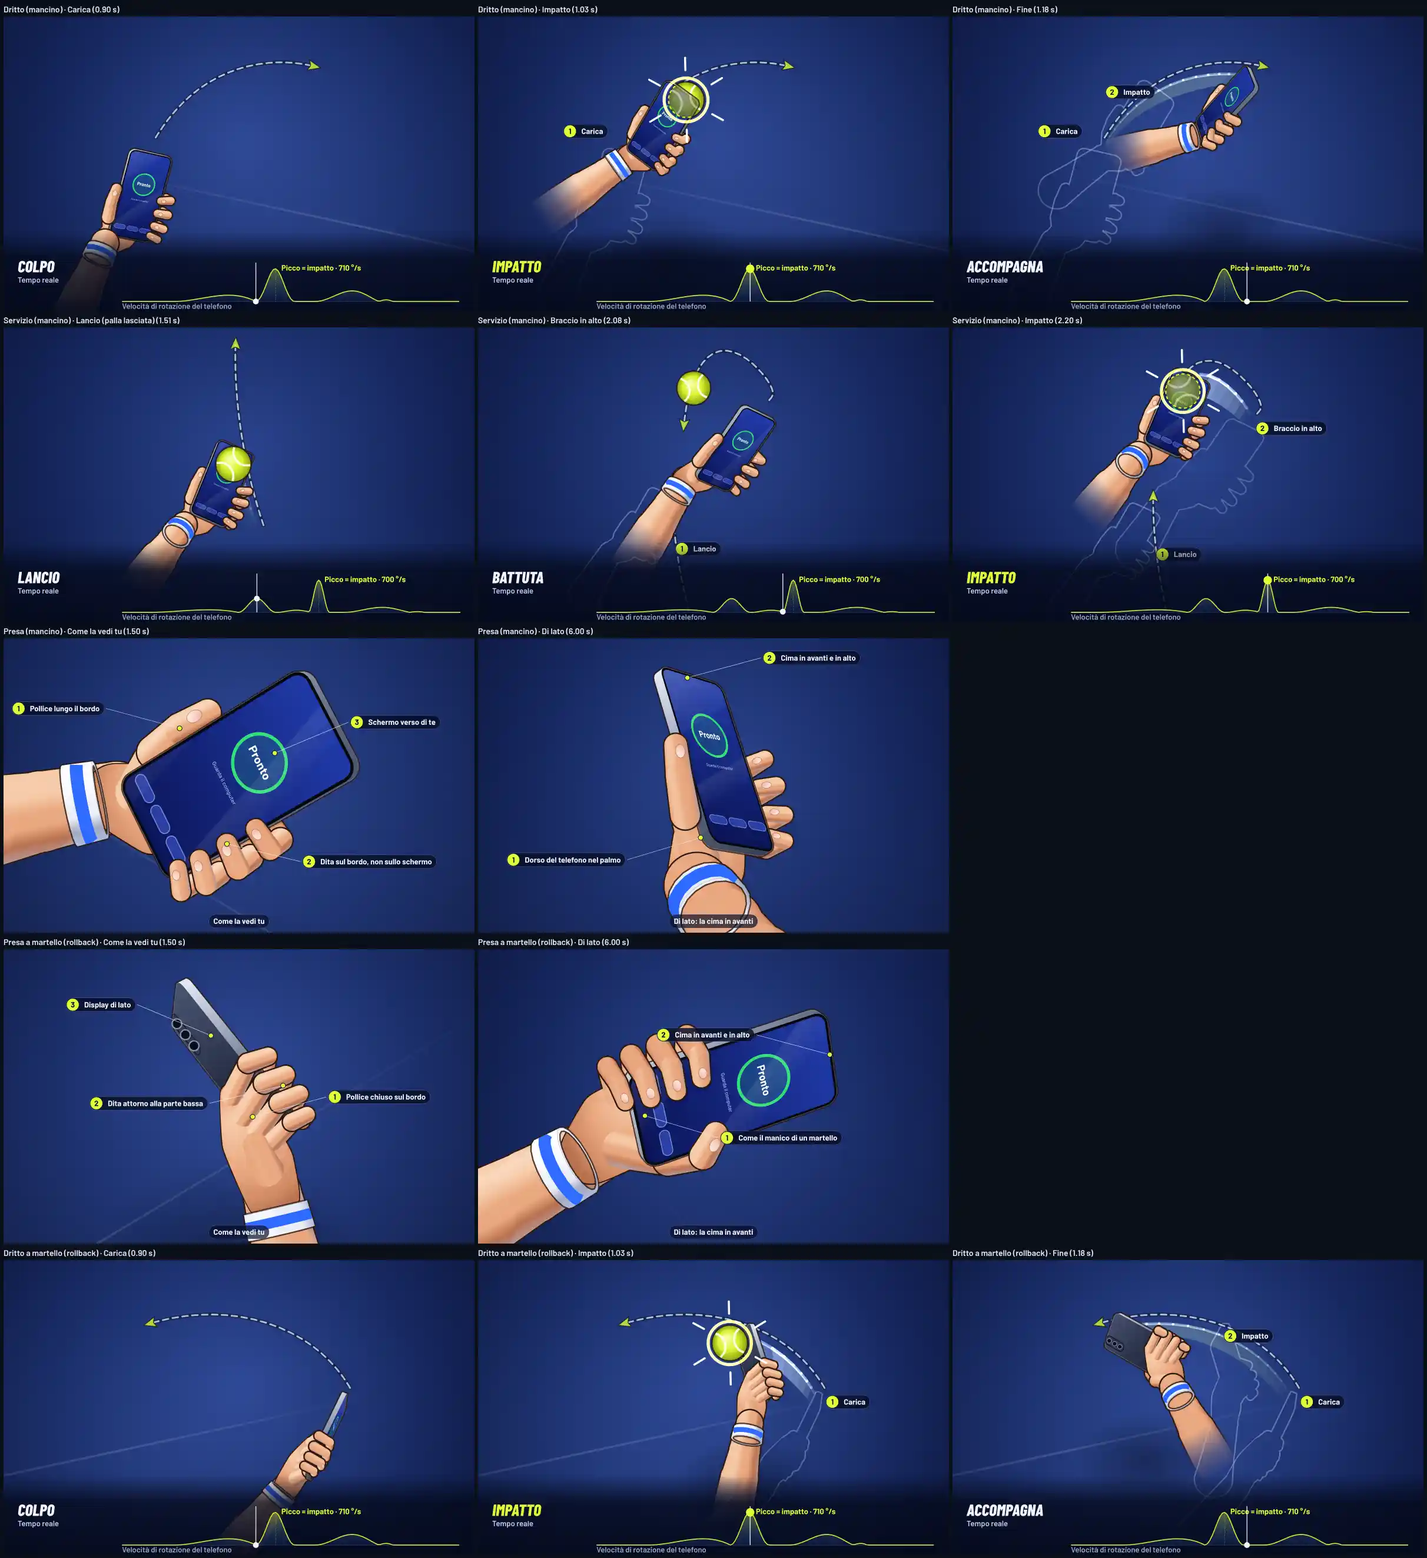
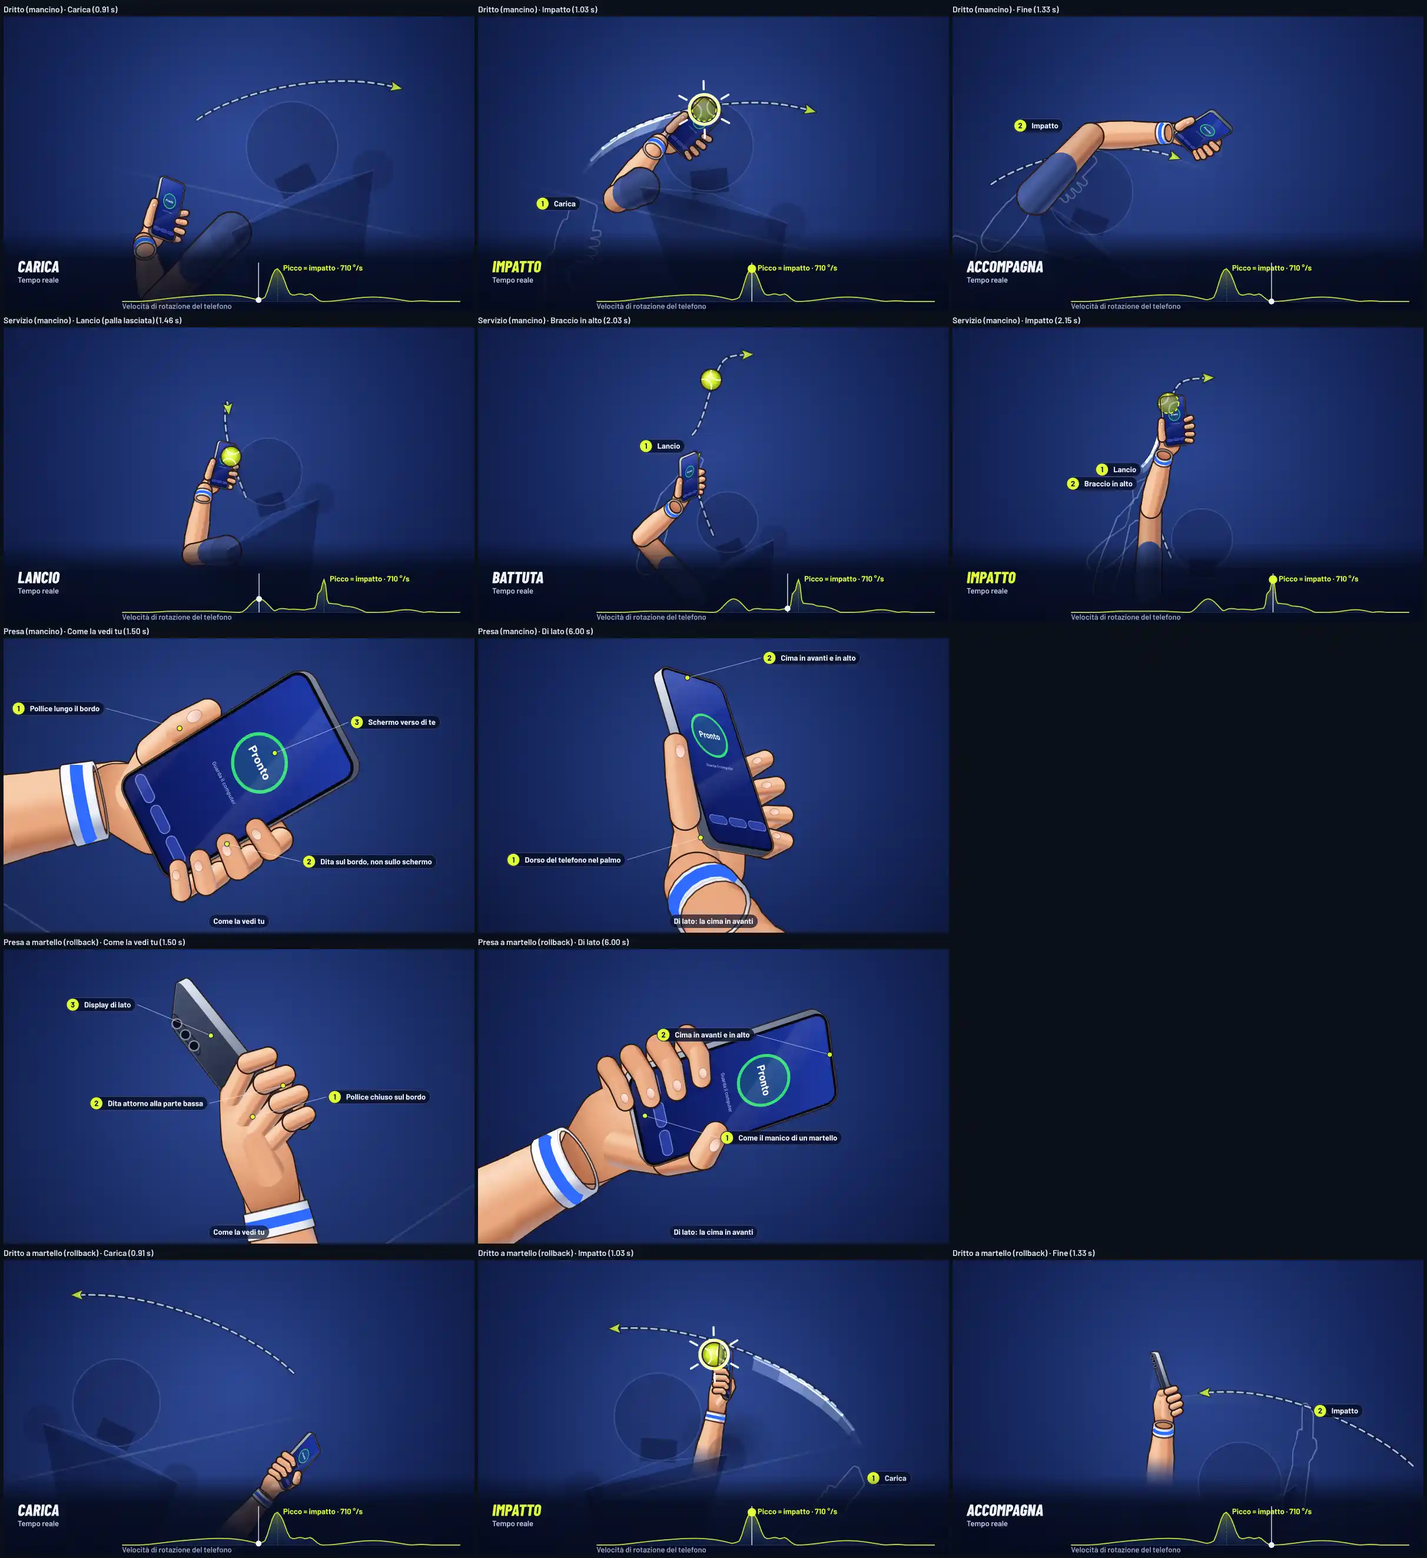
Versione 2026-11-08.1 (B13: gesti del tutorial sulla catena fisica del braccio, prova gesture-calibration stabile); documenti
Claude-Session: https://claude.ai/code/session_01R98qPBRMWiYnbcjA1WWYB9

diff --git a/site/js/tennis/version.js b/site/js/tennis/version.js
@@ -1,3 +1,3 @@
 // Versione della build di NATPF Simulator (gioco e pagina del telefono): finisce nella diagnostica di ogni sessione,
 // così un registro dice con quale codice è stato fatto. Si aggiorna a ogni consegna.
-export const NATPF_BUILD = '2026-11-07.5';
+export const NATPF_BUILD = '2026-11-08.1';

diff --git a/docs/PIANO_LAVORI.md b/docs/PIANO_LAVORI.md
@@ -17,33 +17,31 @@ Come si aggiorna:
 
 ## 1. Checkpoint (riscritto a ogni passo)
 
-- Aggiornato: 07/11/2026 sera · agente: Claude · branch `natpf-simulator`.
-- **Per riprendere leggere `docs/PASSAGGIO_CONSEGNE.md`**: cosa è stato fatto dal 05/11 (B9 tutorial, telefono,
-  schermo spento, pronto; B10 voce «smash», tabellone, scritte nel 2v2, prove; B11 installer unico che si aggiorna dal
-  gioco su Cloudflare R2), cosa resta aperto (§3) e cosa controllare (§4). Checkpoint precedente (storia dal 04/11):
+- Aggiornato: 08/11/2026 · agente: Claude · branch `natpf-simulator`.
+- **Per riprendere leggere `docs/PASSAGGIO_CONSEGNE.md`** (lavoro dal 05/11, punti aperti §3, controlli §4) e, per i
+  gesti del tutorial, `docs/b13/gesti-nuovi.md`. Checkpoint precedente (storia dal 04/11):
   `docs/archivio/PIANO_checkpoint_fino_al_2026-11-07.md`.
-- **B12 fatto (07/11 sera, richiesta «parti dalla forza del colpo e dalle azioni di GitHub»):** il colpo tipico
-  impara solo dai colpi normali (dopo 4 palle corte il dritto non diventa più piatto; `67af1d9`); azioni di GitHub a
-  Node 24 (`4ba8b49`). Versione **2026-11-07.5**: il push fa pubblicare il workflow `natpf-windows.yml` su R2 → è la
-  **prima prova vera dell'aggiornamento dal gioco** per chi ha la 07.4. Zip Cloudflare sha256 `65d242c8…f3333dd6d96`.
-- Test: gioco 875/875, sito 195/195, LAN 12/12, programma Windows 28/28, build ok; nel browser natpf-gesti-speciali 9/9,
-  natpf-rally 7/7, natpf-training-flow 18/18 (le altre come al giro del B11, `docs/PASSAGGIO_CONSEGNE.md` §4).
-- Non verificato: Windows (installazione, UAC, aggiornamento dal gioco, riapertura), telefoni veri, ledwall, GPU vera,
-  persone vere sull'animazione nuova.
-- GitHub: installer 2026-11-07.5 **pubblicato su R2** (`latest.json` controllato: build 07.5, sha256
-  `7c037ab5…c087fc5a`, novità), azioni senza avviso di Node 20; «NATPF Simulator tests» rosso solo in
-  `gesture-calibration.mjs:73` (due tentativi; in locale 18/18 due volte: instabilità nota dei runner, §3.10 del
-  passaggio di consegne).
-- **Richiesta nuova (07/11 sera):** «sistema la prova gesture-calibration. In parallelo, rivedi ancora i gesti del
+- **B13 fatto (08/11, richiesta «sistema la prova gesture-calibration. In parallelo, rivedi ancora i gesti del
   tutorial, il dritto non mi sembra tale e ci sono troppi colpi che non simulano la fisica del movimento del braccio
-  con il telefono in mano» → **B13**.
-- **Blocco in corso:** B13, in due rami paralleli: (a) `tools/e2e/gesture-calibration.mjs` stabile sui runner lenti
-  (servizio col telefono del sito: `toss: null` al secondo gesto); (b) moto dei gesti del tutorial
-  (`natpf-tennis/src/natpf/natpf_gesture_pose.js`, disegno `natpf_gesture_demo.js`) rifatto su una catena
-  spalla-gomito-polso fisicamente plausibile, senza perdere la fedeltà al riconoscimento (`natpf-gesture-pose.test.mjs`,
-  `natpf-gesture-anim.test.mjs`). Analisi e prove in `docs/b13/` quando pronte.
-- **Prossima azione esatta:** se il lavoro si interrompe, ripartire da (a) e (b) leggendo `docs/b13/` (se c'è) e il
-  passaggio di consegne §3; il collaudo dell'aggiornamento 07.4 → 07.5 dall'utente resta da fare.
+  con il telefono in mano»):**
+  - (a) `tools/e2e/gesture-calibration.mjs` stabile (`9f9ca9e`…`67845e6`): la prova fermava il gioco con la pausa di
+    rete, e un gesto fatto più di 0,8 s dopo l'ultimo fotogramma registrato viene scartato apposta
+    (`input-time.js`); sui runner lenti succedeva. Ora fermo immagine all'apice del lancio senza pausa; `CPU_THROTTLE`
+    per simulare un runner lento (prima 0/5 con CPU ×4, ora 12/12). Analisi `docs/b13/gesture-calibration-ci.md`.
+  - (b) Gesti del tutorial sulla catena fisica spalla-gomito-polso (`e82f35b`): braccio intero dalla spalla con busto,
+    testa e manica; dritto, piatto, incrociato, rovescio, servizio, schiacciata, volée e pallonetto rifatti; nuovo test
+    `natpf-gesture-physics` (12). Riconoscimento non toccato. **Limite rimasto**: all'impatto la mano del dritto va in
+    diagonale avanti-sinistra (57° dalla rete, prima 77°): con la presa nel palmo e i limiti del riconoscimento non può
+    andare dritta verso la rete con il palmo davanti (`docs/b13/gesti-nuovi.md` §0).
+  - Versione **2026-11-08.1** (novità per chi aggiorna dal gioco).
+- Test: gioco 887/887, sito 195/195, LAN 12/12, programma Windows 28/28, build ok; nel browser vedi
+  `docs/WORK_PROGRESS.md` B13.
+- Non verificato: Windows (installazione, aggiornamento dal gioco 07.4 → 07.5 → 08.1), telefoni veri, ledwall, GPU vera,
+  persone vere sull'animazione nuova; l'utente non ha ancora visto i fogli dei gesti nuovi.
+- **Decisioni chieste all'utente** (B13): tenere la sagoma del busto; aggiungere una racchetta fantasma o il braccio
+  libero in servizio e schiacciata; camera alta da dietro (stile TV) per i colpi da fondo.
+- **Prossima azione esatta:** controllare la CI del push di B13 («NATPF Simulator tests» con `gesture-calibration`
+  verde; «NATPF eseguibili Windows» che pubblica la 2026-11-08.1 su R2) e aspettare il parere dell'utente sui gesti.
 ## 2. Regole di lavoro decise dall'utente (04/11/2026, valgono per tutti gli agenti)
 
 1. **Push**: dopo ogni commit verificato, subito, su `origin natpf-simulator`. Verificato = test del gioco e del sito
@@ -119,7 +117,7 @@ Legenda: [ ] da fare · [~] in corso · [x] fatto, verificato e pubblicato.
 | B10 Voce, tabellone, scritte, prove | [x] | voce «smash» solo per la schiacciata, tabellone come in TV, scritte del colpo fuori dal campo nel 2v2, palla corta e salita abituale, blocco di 1 s, prove rifatte | `8a12f2b`…`f490c7b` | 2026-11-07.1–.3 |
 | B11 Installer unico con aggiornamenti | [x] | un solo installer Windows che si aggiorna dal gioco (Cloudflare R2, bucket UE `natpfsimulator`), zip LAN e portatile tolti; collaudo Windows dell'utente in corso | `8623bd9`…`fa190f2` | 2026-11-07.4 |
 | B12 Forza del colpo e CI | [x] | colpo tipico solo dai colpi normali (palle corte non abbassano più la forza); azioni di GitHub a Node 24 | vedi WORK_PROGRESS B12 | 2026-11-07.5 |
-| B13 Prova del servizio e gesti del tutorial | [~] | `gesture-calibration` stabile in CI; moto dei gesti del tutorial con la fisica del braccio (dritto credibile) | — | — |
+| B13 Prova del servizio e gesti del tutorial | [x] | `gesture-calibration` senza pausa di rete (stabile con CPU ×4); gesti del tutorial sulla catena fisica del braccio (dritto ancora in diagonale: limite del riconoscimento) | vedi WORK_PROGRESS B13 | 2026-11-08.1 |
 
 Ordine: B0 → B1 → B2 → B3 → B4 → B5 → B6. B2 e B6 non dipendono dagli altri e possono essere anticipati se un blocco
 resta in attesa di una decisione. B4 dipende da B3 (il contenuto della modale mostra la presa nuova).

diff --git a/docs/PASSAGGIO_CONSEGNE.md b/docs/PASSAGGIO_CONSEGNE.md
@@ -154,13 +154,13 @@ Le sha256 di tutti i pacchetti sono in `docs/WORK_PROGRESS.md`.
 | 1 | **Collaudo Windows dell'utente** (installer, SmartScreen, UAC, firewall, ledwall, webcam, scheda grafica del PC noleggiato, schermo intero, monitor) | In corso dall'utente con la 2026-11-07.4. Lista dei punti: `docs/COLLAUDO_WINDOWS.md` (§2 installazione, §2b aggiornamento, §4–§6). Correggere ciò che segnala (registro `%LOCALAPPDATA%\NATPF\log\programma.log`). |
 | 2 | **Primo aggiornamento vero dal gioco** | Si prova solo con la **prossima versione** (2026-11-07.5 o successiva): bump della versione → push → il workflow pubblica → sul PC con la 07.4 l'avviso nel menu → Aggiorna → Riavvia e aggiorna → UAC → gioco riaperto con la versione nuova e le impostazioni conservate. Le installazioni fatte con installer ≤ 07.3 non hanno l'aggiornatore: la 07.4 va installata a mano una volta. |
 | 3 | **Telefoni veri** | Mai provati in questi blocchi: frecce del tutorial e «Tutto chiaro» acceso solo alla fine, schermo spento (3 s / 30 s / 6 min, Android e iPhone), conto alla rovescia nello stesso schermo, presa nel palmo, voce «smash» ascoltata. |
-| 4 | **Persone vere sull'animazione** | Brief `docs/b9/giudizio-animazione.md` §5.6.6: 3 persone che non conoscono il gioco guardano dritto, rovescio e servizio e li ripetono (diagnostica della sessione). Le camere di servizio e schiacciata non sono più di profilo (da dietro e dall'alto): da far vedere all'utente. Minori non corretti: fantasmi un po' affollati, pallonetto piccolo a riposo; le schermate `docs/b9/img/C-modale-*-servizio.webp` mostrano ancora la camera vecchia. |
+| 4 | **Persone vere sull'animazione** | Il moto è stato rifatto nel B13 (08/11) sulla catena fisica del braccio, con il braccio intero, busto e testa (`docs/b13/gesti-nuovi.md`); l'utente non l'ha ancora visto. Decisioni chieste: tenere la sagoma del busto; racchetta fantasma o braccio libero in servizio e schiacciata; camera alta da dietro per i colpi da fondo. Limiti noti: mano del dritto in diagonale all'impatto (limite del riconoscimento), servizio con poca pronazione, volée vicina al centro del corpo, pendolo del pallonetto poco visibile. Brief per 3 persone che non conoscono il gioco: `docs/b9/giudizio-animazione.md` §5.6.6. Le schermate `docs/b9/img/` mostrano l'animazione di prima. |
 | 5 | **Webcam del P2 nella sfida, errore raro** | Circa 1 volta su 15 sotto carico, dopo «Accendi la webcam» la webcam del P2 resta spenta (`tools/e2e/natpf-1v1-webcam-p2.mjs` ora stampa `opening/err/box` per capire). Non risolto. |
 | 6 | **Forza del colpo dopo molte palle corte** | **Fatto (B12, 07/11):** confermato con il telefono simulato (dopo 4 palle corte il dritto era letto piatto, forza 0,69 contro 0,51, in tutti i casi destro/mancino e calibrazione braccio/animazione); il colpo tipico ora impara solo dai colpi normali (`createTypicalModel.learn`). Test in `natpf-racchetta.test.mjs` (falliscono senza la correzione). |
 | 7 | **Sicurezza degli aggiornamenti** | Il manifesto non è firmato: l'integrità dipende da HTTPS, dal token R2 (solo nei segreti di GitHub) e dallo sha256 nel manifesto. L'installer non ha la firma del codice (decisione dell'utente del 04/11: SmartScreen avvisa). Possibile passo futuro: firma Ed25519 del manifesto con chiave pubblica nel programma. |
 | 8 | **Proxy aziendali** | L'aggiornatore usa http/https di Node, che non legge il proxy di sistema di Windows: dietro un proxy obbligatorio il controllo fallisce (il gioco non si blocca, mostra l'errore). |
 | 9 | **r2.dev è un indirizzo «di sviluppo»** | Cloudflare lo limita (centinaia di richieste al secondo, 429 oltre): per pochi PC va bene. Per un uso più ampio collegare un dominio al bucket (`Settings → Custom Domains`) e cambiare `natpf-desktop/aggiornamenti.json` (le installazioni esistenti leggono il vecchio indirizzo finché non si aggiornano). |
-| 10 | **CI** | Azioni aggiornate a Node 24 (checkout, setup-node, upload-artifact v7; B12, 07/11). Restano le due prove intermittenti di `natpf-simulator-tests.yml` sui runner condivisi (`gesture-calibration` riga 73, `timing-browser` dopo la pausa condivisa: in locale 18/18 e 8/8, rosse una volta su due anche prima del B8; il 07/11 sera `gesture-calibration` rossa in due tentativi di fila sull'esecuzione 108, in locale verde due volte: va resa stabile, è il servizio col telefono del sito con `toss: null` al secondo gesto) e `natpf-tennis/test/e2e/lan-e2e.mjs` (fuori CI) rosso negli stessi controlli già prima del B8. |
+| 10 | **CI** | Azioni aggiornate a Node 24 (checkout, setup-node, upload-artifact v7; B12, 07/11). `gesture-calibration` resa stabile nel B13 (08/11): la prova usava la pausa di rete come fermo immagine e il gioco scarta i gesti fatti oltre 0,8 s dopo l'ultimo fotogramma registrato (`docs/b13/gesture-calibration-ci.md`; con CPU ×4 prima 0/5, ora 12/12). Resta intermittente `timing-browser` (causa diversa: un messaggio del telefono finto oltre 3 s sul runner lento, non corretto) e `natpf-tennis/test/e2e/lan-e2e.mjs` (fuori CI) rosso negli stessi controlli già prima del B8. |
 | 11 | **Sfida tra due computer** | Sospesa dall'utente per le partite vere; fatta solo la correzione minima del «pronto». TURN Worker `natpf-turn` attivo (`docs/GUIDA_TURN_CLOUDFLARE.md`). |
 | 12 | **Velocità dell'animazione su PC senza GPU** | Disegno a 640×400 con rasterizzazione su CPU al limite dei 4 ms con la macchina carica. Su GPU vera non misurato. |
 

diff --git a/docs/WORK_PROGRESS.md b/docs/WORK_PROGRESS.md
@@ -456,3 +456,48 @@ Analisi in `docs/b9/` (modale e animazione, specifica dei gesti, telefono e sche
   del sito: `toss: null` al secondo gesto) al primo tentativo e alla ripetizione dei soli job falliti (in quella
   anche `timing-browser` era rosso al primo e verde al secondo). In locale `gesture-calibration` 18/18 due volte su due
   con lo stesso codice; B12 non tocca `site/js/tennis` né la prova: punto aperto noto (passaggio di consegne §3.10).
+
+## B13 · Prova gesture-calibration stabile, gesti del tutorial con la fisica del braccio · [x] · 07–08/11/2026
+- Richiesta: «sistema la prova gesture-calibration. In parallelo, rivedi ancora i gesti del tutorial, il dritto non mi
+  sembra tale e ci sono troppi colpi che non simulano la fisica del movimento del braccio con il telefono in mano».
+  Due rami paralleli (`b13-gc`, `b13-gesti`), ciascuno con revisione indipendente.
+- [x] B13.1 (`9f9ca9e`, `209cda6`, `67845e6`) · `tools/e2e/gesture-calibration.mjs`, `tools/e2e/README.md`,
+  `docs/b13/gesture-calibration-ci.md`. Causa riprodotta con la CPU frenata via CDP: la prova fermava il gioco con
+  `A.netPause` all'apice del lancio; con la pausa `main.js` non registra i fotogrammi e `presented.seenAt` scarta un gesto
+  fatto più di 0,8 s dopo l'ultimo (`INPUT_TIME.maxAge`): sui runner lenti il secondo gesto arrivava oltre, la palla
+  ricadeva (`toss: null`) e la prova scadeva alla riga 73. Il gioco vero non è difettoso (ogni ripresa chiama
+  `resetInputTimeline()`). Correzione solo nella prova: fermo immagine facendo avanzare il motore con dt = 0 e fermando il
+  disegno; `CPU_THROTTLE=<n>` frena la CPU dal servizio in poi. Prima con CPU ×4: 0/5; dopo: 12/12 (revisore 10/10, anche
+  ×6, ×8, ×10 e gesto in ritardo). `timing-browser` ha una causa diversa (messaggio del telefono finto oltre 3 s sul
+  runner lento): non corretto, annotato in `docs/PASSAGGIO_CONSEGNE.md` §3.10.
+- [x] B13.2 (`e82f35b`, 12 commit del ramo uniti in uno perché alcuni intermedi avevano test rossi) ·
+  `natpf_gesture_pose.js` (catena spalla-gomito-polso con segmenti fissi e limiti delle articolazioni, telefono rigido nel
+  palmo, `gestureRig` con le articolazioni vere, `tC` salvati nelle coreografie), `natpf_gesture_demo.js` (braccio intero
+  dalla spalla, busto, testa, manica blu, fantasmi di avambraccio e mano, camere nuove), `test/natpf-gesture-physics.test.mjs`
+  (12, nuovo), `test/natpf-gesture-anim.test.mjs`, `tools/e2e/natpf-gesti-fotogrammi.mjs`, `docs/b13/analisi-gesti.md`,
+  `docs/b13/gesti-nuovi.md`. Riconoscimento non toccato; `natpf-gesture-pose` (14) e `natpf-racchetta` (26) non modificati.
+  Cambiati due controlli di disegno del dritto scritti nel B9 (palmo che spinge da ≥ 0,3 a ≥ 0,1; «mano ≥ 4 cm sotto la
+  palla» → «punto più basso non sopra il contatto») e il test delle etichette dei fantasmi (camere che seguono la mano).
+  - Dritto: carica con le spalle a −38° e la mano dietro il busto; impatto davanti a destra (0,29; 0,98; −0,37) con il
+    gomito staccato 0,33 m e flesso 59°; una sola frenata; fine sopra la spalla sinistra a 1,45 m. **Mano all'impatto in
+    diagonale avanti-sinistra, 57° dalla rete (prima 77°)**: con la presa nel palmo e i limiti del riconoscimento non
+    può andare dritta con il palmo davanti (`docs/b13/gesti-nuovi.md` §0).
+  - Servizio: gomito 34° all'impatto (prima 80°), polso a 1,93 m, mano e telefono mai nella testa; ancora 2 gesti a
+    0,8×, 1× e 1,25×. Schiacciata: gomito 28°, fine in avanti e giù a 1,40 m. Rovescio: impatto 0,37 m davanti con il
+    gomito a 20° (prima 86°), mano a 5,4 m/s (prima 2,46), avambraccio mai nel busto. Volée: mano in avanti (prima
+    tornava verso il corpo), camera più bassa. Incrociato con coreografia propria.
+  - Disegno a 640×400: 1,27 ms per fotogramma, 3,10 ms con la rasterizzazione (limite 4).
+- [x] B13.3 · versione **2026-11-08.1** (`version.js`, `build.json`, `LEGGIMI.txt`), novità in `natpf-desktop/novita.txt`.
+- Verifiche sul branch unito: gioco 887/887, sito 195/195, LAN 12/12, programma Windows 28/28, build ok; nel browser
+  `gesture-calibration` 18/18 e con `CPU_THROTTLE=4` 18/18, `phone-only` + `timing-browser` 8/8, `natpf-modale-gesti`
+  18/18, `natpf-gesti-fotogrammi` 31/31, `natpf-gesti-sequenze` 47/47, `natpf-gesti-speciali` 9/9, `natpf-training-flow`
+  18/18, `natpf-tutorial-phone` 37/37, `natpf-tutorial-relink` 8/8. Zip Cloudflare `natpf-simulator-cloudflare-20261108-1.zip`
[1 lines of base64/hex data omitted]
+  (versione 2026-11-08.1 nel gioco e nella pagina del telefono, nessun errore; 404 attesi solo su `/api/match/state` e
+  `/lan/status` con un server statico).
+- Non verificato: telefoni veri, persone vere che imitano l'animazione, Windows; l'utente non ha ancora visto i fogli.
+  Restano: dritto in diagonale, servizio con poca pronazione, volée vicina al centro, pendolo del pallonetto poco
+  visibile, busto che anticipa la mano di soli 6–16 ms; margini sottili ma dentro i test (picco del piatto 1144 su 1150,
+  carica della volée 15° su 15°, fermo del pallonetto 0,030 s su 0,04 s).
+- Decisioni chieste all'utente: sagoma del busto sì o no; racchetta fantasma o braccio libero in servizio e schiacciata;
+  camera alta da dietro (stile TV) per i colpi da fondo.

diff --git a/docs/PROJECT_MEMORY.md b/docs/PROJECT_MEMORY.md
@@ -440,3 +440,25 @@ Classificazione (`natpf-tennis/src/natpf/natpf_gestures.js`, `classifyPhoneShot`
   simulato dei test (`test/phone-sim.mjs`) usa la stessa regola.
 - Le azioni di GitHub sono alle versioni con Node 24 (checkout, setup-node e upload-artifact v7): Node 20 viene tolto
   dai runner il 16/09/2026.
+
+### Gesti del tutorial sulla catena fisica del braccio (B13, 08/11/2026)
+- `natpf_gesture_pose.js` calcola il braccio come una catena spalla-gomito-polso con segmenti di lunghezza fissa e
+  limiti delle articolazioni; il telefono è rigido nel palmo (presa approvata). `gestureRig` restituisce le
+  articolazioni vere e `natpf_gesture_demo.js` disegna il braccio intero dalla spalla, con busto, testa e manica.
+  I tempi d'impatto risolti (`tC`) stanno nelle coreografie (un test li ricalcola) per non risolverli a ogni apertura.
+- `test/natpf-gesture-physics.test.mjs` misura la fisica con soglie fisiche: direzione della mano all'impatto (dritto al
+  massimo 60° dalla rete), gomito staccato dal corpo (≥ 0,1 m), carica dietro il piano del busto, una sola frenata
+  (nessuna riaccelerazione oltre 0,3 m/s o 40 °/s), nessuna compenetrazione di avambraccio, gomito, dita e telefono con
+  busto e testa. La fedeltà al riconoscimento resta in `natpf-gesture-pose` e `natpf-racchetta` (non toccati).
+- **Vincolo del dritto**: con la presa nel palmo e i limiti del riconoscimento (carica lenta per ~70° di rotazione del
+  telefono, parte veloce di ~45° prima del picco) la mano all'impatto non può andare dritta verso la rete con il palmo
+  davanti: va in diagonale avanti-sinistra (57°). Una mano tutta in avanti avrebbe il dorso davanti. Per cambiarlo si
+  dovrebbe toccare il riconoscimento (con prove su telefoni veri), non l'animazione.
+- Le coreografie si ritoccano con un ottimizzatore fuori dal repository (Nelder–Mead sulle pose chiave e sui ritardi,
+  ogni candidato letto dal telefono simulato completo): descritto in `docs/b13/gesti-nuovi.md`.
+
+### Prove nel browser: niente pausa di rete come fermo immagine (B13, 08/11/2026)
+- `main.js` scarta di proposito un gesto fatto più di `INPUT_TIME.maxAge` (0,8 s) dopo l'ultimo fotogramma registrato, e
+  con `A.netPause` i fotogrammi non si registrano. Una prova che ferma il gioco con la pausa di rete e poi manda un gesto
+  è instabile sui runner lenti (era `gesture-calibration.mjs:73`). Il fermo immagine si fa facendo avanzare il motore con
+  dt = 0 e fermando il disegno; `CPU_THROTTLE=4` simula un runner lento (`docs/b13/gesture-calibration-ci.md`).
